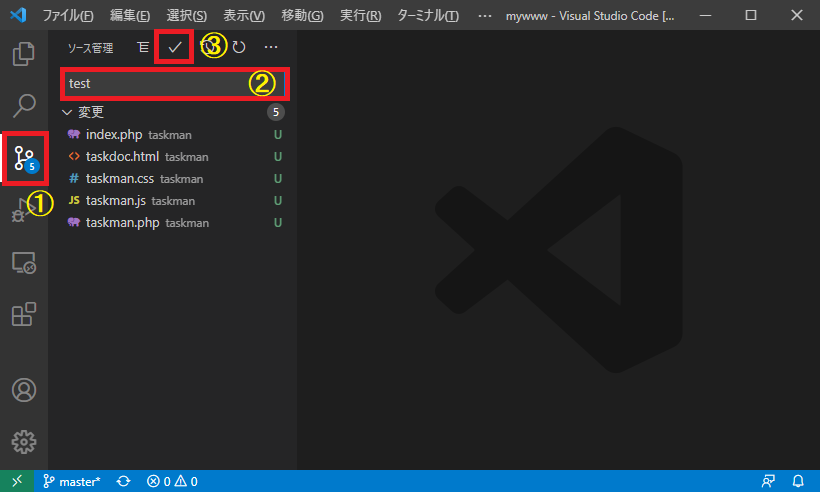
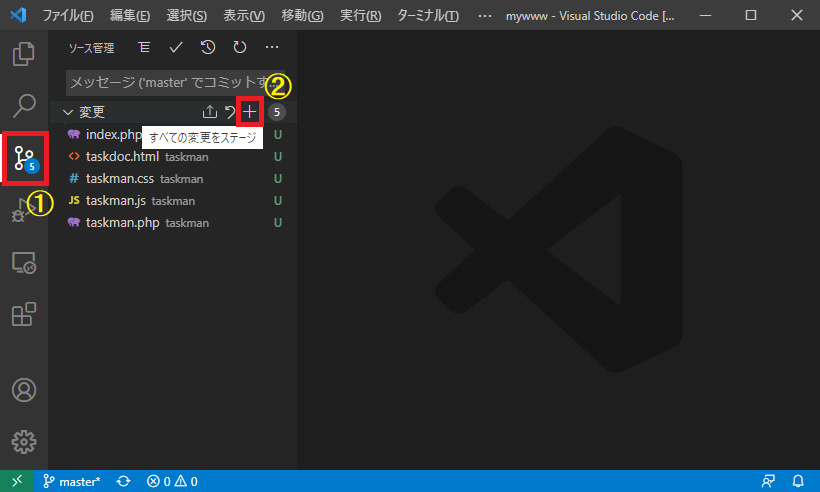
testdeply

Changed region(s): [[0.061, 0.061, 0.3659, 0.3049]]

diff --git a/help/gitdoc.html b/help/gitdoc.html
@@ -27,6 +27,16 @@
         right: 0px;
         font-size: 0.8em;
     }
+    .arrow_d {
+        width: 30px;
+        height: 30px;
+        margin-bottom: 30px;
+        margin-left: auto;
+        margin-right: auto;
+        border: 5px solid;
+        border-color:  transparent transparent #94afeb #94afeb;
+        transform: rotate(-45deg);
+    }    
 </style>
 <body>
     <h1>VSCodeでのGitによるソース管理</h1>
@@ -145,8 +155,8 @@ $ git config --global push.default simple
             <img src="images/git_new02.png" width="800">
             <p>4.ソースを作成（配置）します</p>
             <img src="images/git_new03.png" width="800">
-            <p>5.Git Bucketにローカルリポジトリを作成する</p>
-            <p class="idt2 small">※ローカルリポジトリが既にある場合は『6.リモートリポジトリの構成を追加する』へ</p>
+            <p>5.Git Bucketにリモートリポジトリを作成する</p>
+            <p class="idt2 small">※リモートリポジトリが既にある場合は『6.リモートリポジトリの構成を追加する』へ</p>
             <p class="idt2"><a href="http://mywww.leopalace21.com:8080/" target="_blank">http://mywww.leopalace21.com:8080/</a>を開き、『Sign in』からユーザー・パスワードとも『root』でログインします</p>
             <img class="idt2" src="images/git_new04.png" width="800">
             <p class="idt2">ログイン完了後、追加ボタンより『New Repository』をクリックします</p>
@@ -162,15 +172,19 @@ $ git config --global push.default simple
             <img class="idt2" src="images/git_new09.png" width="800">
             <p class="idt2">コマンドにて『git remote add origin （5で作成した接続用アドレス）』を実行します</p>
             <img class="idt2" src="images/git_new10.png" width="800">
-            <p>7.ローカル内容をリモートリポジトリに反映させます（push）</p>
-            <p class="idt2">先ほど配置したファイルをコミットしローカルリポジトリに反映させます<br>①gitを選択　②メッセージを入力し　③コミットをクリックします</p>
+            <p>7.ローカルの内容をリモートリポジトリに反映させます（push）</p>
+            <p class="idt2">先ほど配置したファイルを『＋』ボタンで変更ステージにします</p>
             <img class="idt2" src="images/git_new11.png" width="800">
-            <p class="idt2">直接配置で変更していないので警告メッセージが表示されますが、そのまま『はい』をクリック</p>
-            <img class="idt2" class="idt2" src="images/git_new12.png">
-            <p class="idt2">gitの拡張メニューから『push』を選択します</p>
+            <p class="idt2">ステージしたファイルをコミットしローカルリポジトリに反映させます<br>①gitを選択　②メッセージを入力し　③コミットをクリックします</p>
+            <img class="idt2" src="images/git_new12.png" width="800">
+            <p class="idt2">リモートへ反映させる為に、gitの拡張メニューから『push』を選択します</p>
             <img class="idt2" src="images/git_new13.png" width="800">
-            <p class="idt2">Git Bucketの『Files』をクリックでリモートリポジトリに反映されたことが確認できます</p>
-            <img class="idt2" src="images/git_new14.png" width="800">
+            <p class="idt2">Git Bucketにて作成したリポジトリをクリックすることで反映されたことが確認できます</p>
+            <div style="width: 800px">
+                <img class="idt2" src="images/git_new14.png" width="800">
+                <div class="arrow_d"></div>
+                <img class="idt2" src="images/git_new15.png" width="800">
+            </div>
         </div>
     </div>
     <div>
